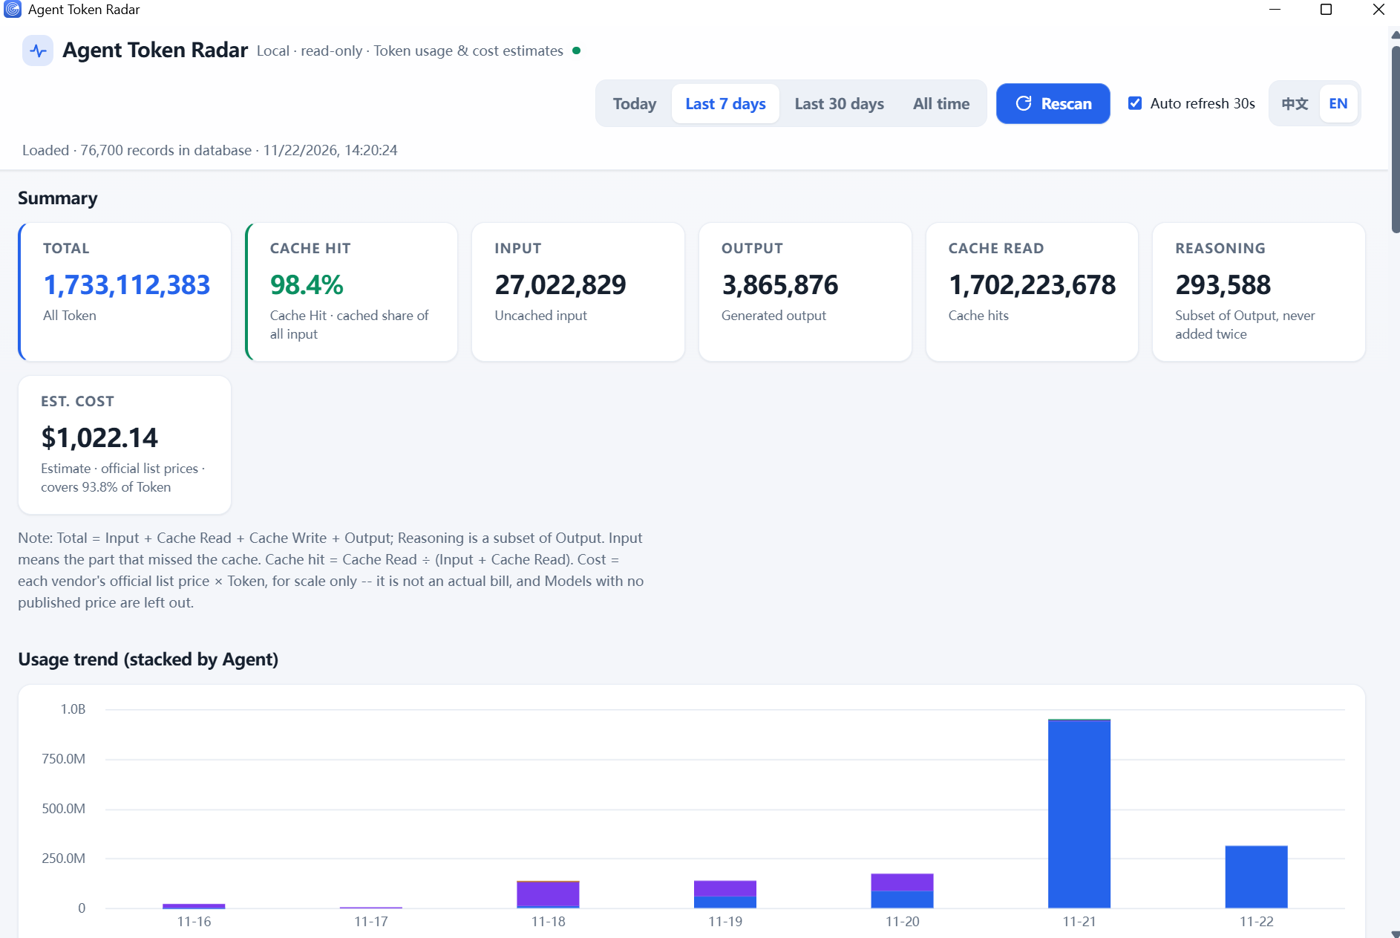
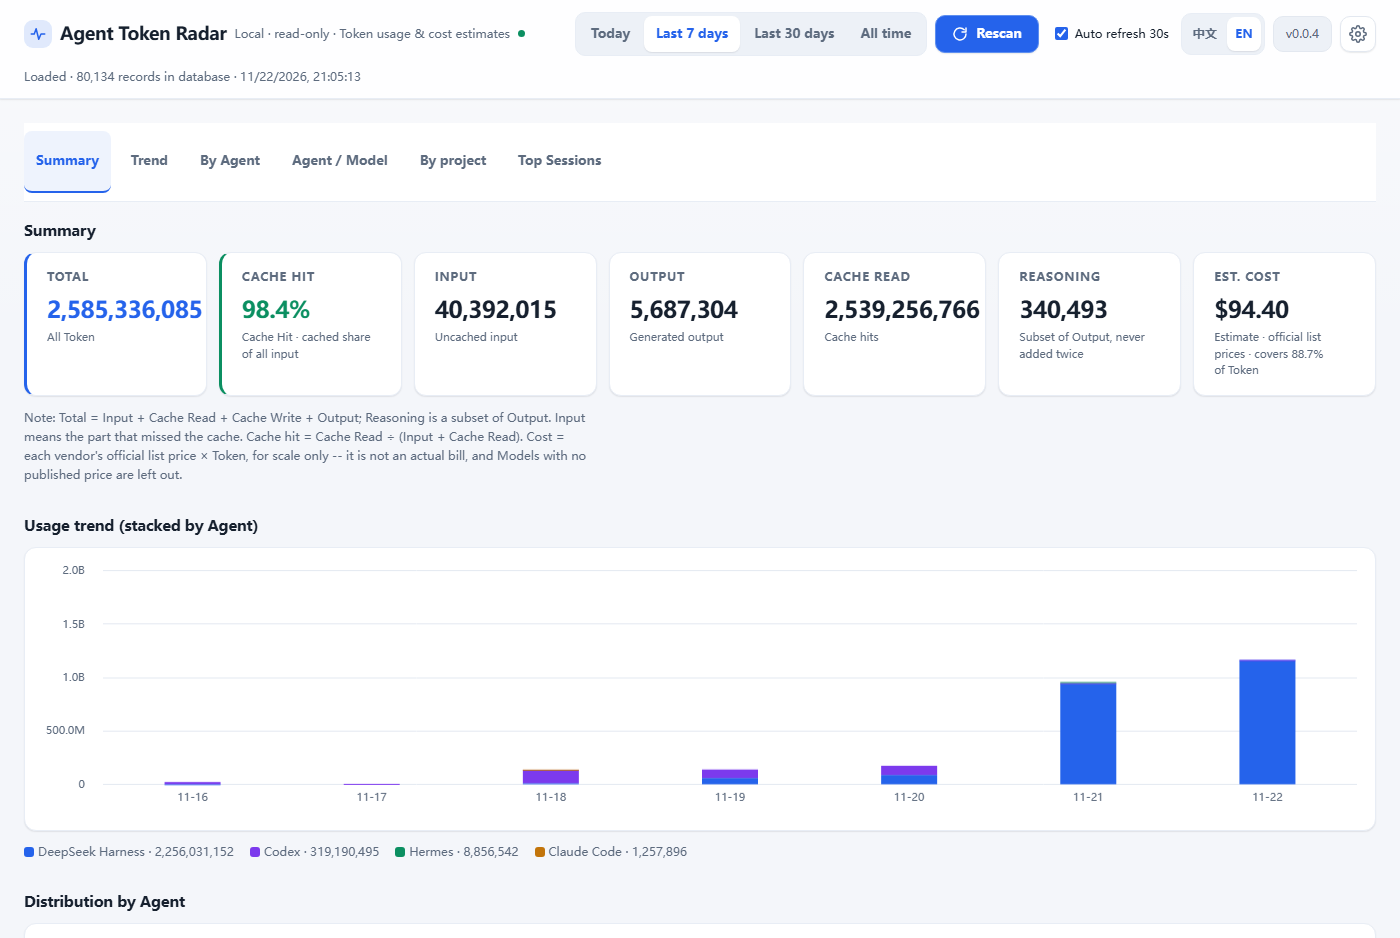
docs: re-shoot the README screenshots for 0.0.4, and fix the About line
The six images still showed 0.0.3: no version button in the toolbar, no update
panel, and the old card layout. They were taken before the 0.0.4 interface
changes, so the README was advertising a screen that no longer exists.

Re-shot from the packaged build against this machine's real data, at the same
1400x938 so the surrounding layout does not shift. The capture is a committed
script now (scripts/shot_readme.py) rather than hand-taken images, because
hand-taking drifts -- a different window size, a forgotten language switch --
and the next interface change would need the same guesswork again.

The repository description also still said "不联网" (no network), which stopped
being true when update checking shipped in 0.0.3. It now says the only network
use is the update check.

Also adds tests/test_readme_links.py: every local link in both READMEs must
resolve, the two languages must show the same number of screenshots, and an
image under 20KB is treated as a failed capture.

diff --git a/scripts/shot_readme.py b/scripts/shot_readme.py
@@ -1,0 +1,270 @@
+"""Capture the README screenshots from a running Agent Token Radar.
+
+Why a script instead of hand-taken screenshots: the README promises these come
+from the real app, so they must be re-taken whenever the interface changes.
+Doing that by hand drifts (different window size, different scroll offset,
+forgotten language switch). This drives one headless browser over CDP, scrolls
+to an exact heading, and writes a fixed-size PNG -- so a re-shoot is one command
+and every image matches the others.
+
+Usage:
+    python scripts/shot_readme.py --port 8771
+
+Requires Edge or Chrome. Standard library only apart from the browser itself.
+"""
+
+from __future__ import annotations
+
+import argparse
+import base64
+import json
+import shutil
+import socket
+import subprocess
+import sys
+import tempfile
+import time
+import urllib.request
+from pathlib import Path
+
+ROOT = Path(__file__).resolve().parents[1]
+DOCS = ROOT / "docs"
+
+#: 1400x938 matches the images both READMEs already reference.
+WIDTH, HEIGHT = 1400, 938
+
+#: (filename pattern, element id to align to the top, description)
+SHOTS = [
+    ("app-{lang}-1.png", "cards-title", "summary + trend"),
+    ("app-{lang}-2.png", "model-title", "by model"),
+    ("app-{lang}-3.png", "sessions-title", "top sessions"),
+]
+
+BROWSERS = [
+    r"C:\Program Files (x86)\Microsoft\Edge\Application\msedge.exe",
+    r"C:\Program Files\Google\Chrome\Application\chrome.exe",
+    r"C:\Program Files\Microsoft\Edge\Application\msedge.exe",
+]
+
+
+def _find_browser() -> str:
+    for path in BROWSERS:
+        if Path(path).is_file():
+            return path
+    raise SystemExit("no Edge or Chrome found; install one to re-shoot")
+
+
+def _free_port() -> int:
+    with socket.socket() as s:
+        s.bind(("127.0.0.1", 0))
+        return int(s.getsockname()[1])
+
+
+def _wait_devtools(port: int, timeout: float = 30.0) -> str:
+    """Return the webSocketDebuggerUrl of the first page target."""
+    deadline = time.time() + timeout
+    last = ""
+    while time.time() < deadline:
+        try:
+            with urllib.request.urlopen(
+                    f"http://127.0.0.1:{port}/json/list", timeout=2) as r:
+                targets = json.load(r)
+            for t in targets:
+                if t.get("type") == "page" and t.get("webSocketDebuggerUrl"):
+                    return t["webSocketDebuggerUrl"]
+            last = "no page target yet"
+        except Exception as exc:                     # noqa: BLE001 - retried
+            last = str(exc)
+        time.sleep(0.4)
+    raise SystemExit(f"devtools never became ready: {last}")
+
+
+class CDP:
+    """Minimal CDP client over a raw socket.
+
+    No third-party websocket library: this project keeps to the standard
+    library, and the framing needed here is a few dozen lines.
+    """
+
+    def __init__(self, ws_url: str) -> None:
+        rest = ws_url.split("://", 1)[1]
+        hostport, path = rest.split("/", 1)
+        host, port = hostport.split(":")
+        self.sock = socket.create_connection((host, int(port)), timeout=60)
+        key = base64.b64encode(b"agent-token-radar").decode()
+        req = (
+            f"GET /{path} HTTP/1.1\r\n"
+            f"Host: {hostport}\r\n"
+            "Upgrade: websocket\r\n"
+            "Connection: Upgrade\r\n"
+            f"Sec-WebSocket-Key: {key}\r\n"
+            "Sec-WebSocket-Version: 13\r\n\r\n"
+        )
+        self.sock.sendall(req.encode())
+        buf = b""
+        while b"\r\n\r\n" not in buf:
+            chunk = self.sock.recv(4096)
+            if not chunk:
+                raise SystemExit("websocket handshake failed")
+            buf += chunk
+        if b"101" not in buf.split(b"\r\n", 1)[0]:
+            raise SystemExit(f"websocket refused: {buf[:200]!r}")
+        self._id = 0
+
+    def _send_frame(self, payload: bytes) -> None:
+        header = bytearray([0x81])
+        n = len(payload)
+        if n < 126:
+            header.append(0x80 | n)
+        elif n < 65536:
+            header.append(0x80 | 126)
+            header += n.to_bytes(2, "big")
+        else:
+            header.append(0x80 | 127)
+            header += n.to_bytes(8, "big")
+        mask = b"\x01\x02\x03\x04"
+        header += mask
+        self.sock.sendall(bytes(header)
+                          + bytes(b ^ mask[i % 4] for i, b in enumerate(payload)))
+
+    def _read_exact(self, n: int) -> bytes:
+        out = b""
+        while len(out) < n:
+            chunk = self.sock.recv(n - len(out))
+            if not chunk:
+                raise SystemExit("websocket closed")
+            out += chunk
+        return out
+
+    def _recv_frame(self) -> bytes:
+        b0, b1 = self._read_exact(2)
+        length = b1 & 0x7F
+        if length == 126:
+            length = int.from_bytes(self._read_exact(2), "big")
+        elif length == 127:
+            length = int.from_bytes(self._read_exact(8), "big")
+        payload = self._read_exact(length)
+        opcode = b0 & 0x0F
+        if opcode == 0x8:
+            raise SystemExit("websocket closed by browser")
+        if opcode == 0x9:
+            self._send_frame(payload)
+            return self._recv_frame()
+        return payload
+
+    def call(self, method: str, **params) -> dict:
+        self._id += 1
+        msg = json.dumps({"id": self._id, "method": method,
+                          "params": params}).encode()
+        self._send_frame(msg)
+        while True:
+            data = json.loads(self._recv_frame())
+            if data.get("id") == self._id:
+                if "error" in data:
+                    raise SystemExit(f"{method} failed: {data['error']}")
+                return data.get("result", {})
+
+    def js(self, expression: str):
+        res = self.call("Runtime.evaluate", expression=expression,
+                        returnByValue=True, awaitPromise=True)
+        return res.get("result", {}).get("value")
+
+    def close(self) -> None:
+        try:
+            self.sock.close()
+        except OSError:
+            pass
+
+
+def _shoot(browser: str, port: int, lang: str, anchor: str, out: Path) -> None:
+    profile = Path(tempfile.mkdtemp(prefix="atr-shot-"))
+    devtools = _free_port()
+    proc = subprocess.Popen(
+        [browser,
+         "--headless=new",
+         "--disable-gpu",
+         "--hide-scrollbars",
+         f"--remote-debugging-port={devtools}",
+         f"--user-data-dir={profile}",
+         f"--window-size={WIDTH},{HEIGHT}",
+         "about:blank"],
+        stdout=subprocess.DEVNULL, stderr=subprocess.DEVNULL,
+    )
+    try:
+        cdp = CDP(_wait_devtools(devtools))
+        try:
+            cdp.call("Page.enable")
+            cdp.call("Emulation.setDeviceMetricsOverride",
+                     width=WIDTH, height=HEIGHT,
+                     deviceScaleFactor=1, mobile=False)
+            # The language is persisted in localStorage, so it has to be set
+            # before the app reads it -- hence navigate, set, reload.
+            cdp.call("Page.navigate", url=f"http://127.0.0.1:{port}/")
+            time.sleep(2.5)
+            cdp.js(f"localStorage.setItem('atr.lang', {json.dumps(lang)})")
+            cdp.call("Page.reload")
+            time.sleep(3.5)
+
+            # Wait until the tables are actually populated: the app fetches
+            # before it renders, and a screenshot of empty tbody is useless.
+            for _ in range(60):
+                rows = cdp.js("document.querySelectorAll('tbody tr').length") or 0
+                if rows >= 3:
+                    break
+                time.sleep(0.5)
+
+            # Align the heading just under the sticky topbar + jump bar. The
+            # heading has to clear BOTH bars: leaving it 12px below the jump
+            # bar cut the section title off behind it in the first attempt.
+            cdp.js(f"""
+                (() => {{
+                  const el = document.getElementById({json.dumps(anchor)});
+                  if (!el) return 'missing';
+                  const bars = document.querySelectorAll(
+                    '.topbar, .section-nav, nav');
+                  let offset = 0;
+                  for (const b of bars) {{
+                    const r = b.getBoundingClientRect();
+                    if (r.height > 0 && r.top < 160) offset = Math.max(offset, r.bottom);
+                  }}
+                  const y = el.getBoundingClientRect().top + window.scrollY
+                            - offset - 34;
+                  window.scrollTo(0, Math.max(0, y));
+                  return 'ok';
+                }})()
+            """)
+            time.sleep(1.2)
+
+            shot = cdp.call("Page.captureScreenshot", format="png")
+            out.write_bytes(base64.b64decode(shot["data"]))
+        finally:
+            cdp.close()
+    finally:
+        proc.terminate()
+        try:
+            proc.wait(timeout=10)
+        except subprocess.TimeoutExpired:
+            proc.kill()
+        shutil.rmtree(profile, ignore_errors=True)
+
+
+def main() -> int:
+    ap = argparse.ArgumentParser()
+    ap.add_argument("--port", type=int, default=8770)
+    ap.add_argument("--lang", default="both", choices=["zh", "en", "both"])
+    args = ap.parse_args()
+
+    browser = _find_browser()
+    langs = ["zh", "en"] if args.lang == "both" else [args.lang]
+    DOCS.mkdir(exist_ok=True)
+    for lang in langs:
+        for pattern, anchor, label in SHOTS:
+            out = DOCS / pattern.format(lang=lang)
+            _shoot(browser, args.port, lang, anchor, out)
+            print(f"  {out.name}  {out.stat().st_size // 1024}KB  ({label}, {lang})")
+    print("done")
+    return 0
+
+
+if __name__ == "__main__":
+    sys.exit(main())

diff --git a/tests/test_readme_links.py b/tests/test_readme_links.py
@@ -1,0 +1,96 @@
+"""The READMEs must not point at anything that is not there.
+
+Both READMEs are the front page of the project, and every link in them is a
+promise: a screenshot of the interface, a design note, a pricing explanation.
+A rename or a deleted file turns those into dead ends that nobody notices until
+a reader clicks one.
+
+This was written after the screenshots were re-taken for 0.0.4: the files are
+regenerated by ``scripts/shot_readme.py``, so it is easy to rename or drop one
+and leave a README pointing at a missing image. The check is cheap and catches
+the whole class.
+"""
+
+from __future__ import annotations
+
+import re
+import unittest
+from pathlib import Path
+
+ROOT = Path(__file__).resolve().parents[1]
+READMES = [ROOT / "README.md", ROOT / "README.en.md"]
+
+#: Markdown inline links and images: [text](target) / ![alt](target)
+LINK = re.compile(r"!?\[[^\]]*\]\(([^)\s]+)\)")
+
+#: Section anchors are checked by the heading tests; external links are the
+#: reader's problem, not ours.
+SKIP_PREFIXES = ("http://", "https://", "mailto:", "#")
+
+
+def _local_targets(text: str) -> list[str]:
+    out = []
+    for raw in LINK.findall(text):
+        target = raw.split("#", 1)[0]          # drop a fragment
+        if not target or target.startswith(SKIP_PREFIXES):
+            continue
+        out.append(target)
+    return out
+
+
+class ReadmeLinkTests(unittest.TestCase):
+    def test_every_local_link_resolves(self) -> None:
+        for readme in READMES:
+            text = readme.read_text(encoding="utf-8")
+            for target in _local_targets(text):
+                path = (readme.parent / target).resolve()
+                self.assertTrue(
+                    path.exists(),
+                    f"{readme.name} links to a missing file: {target}")
+
+    def test_both_readmes_reference_the_same_screenshots(self) -> None:
+        """Chinese and English must stay in step.
+
+        They are separate files with separate image sets (app-zh-* / app-en-*),
+        so this compares the *count* and the suffix pattern rather than names.
+        """
+        zh = [t for t in _local_targets(
+            READMES[0].read_text(encoding="utf-8")) if "/docs/" in t]
+        en = [t for t in _local_targets(
+            READMES[1].read_text(encoding="utf-8")) if "/docs/" in t]
+        self.assertEqual(len(zh), len(en),
+                         f"README.md shows {len(zh)} images, "
+                         f"README.en.md shows {len(en)}")
+        for target in zh:
+            self.assertIn("app-zh-", target)
+        for target in en:
+            self.assertIn("app-en-", target)
+
+    def test_screenshots_are_not_stale_placeholders(self) -> None:
+        """A zero-byte or tiny PNG means the capture silently failed."""
+        for readme in READMES:
+            for target in _local_targets(readme.read_text(encoding="utf-8")):
+                if not target.endswith(".png"):
+                    continue
+                path = readme.parent / target
+                self.assertGreater(
+                    path.stat().st_size, 20_000,
+                    f"{target} looks like a failed capture "
+                    f"({path.stat().st_size} bytes)")
+
+
+class ScreenshotScriptTests(unittest.TestCase):
+    def test_capture_script_is_committed(self) -> None:
+        """The images must be reproducible, not hand-taken one-offs."""
+        script = ROOT / "scripts" / "shot_readme.py"
+        self.assertTrue(script.is_file(),
+                        "the README screenshots need a re-runnable script")
+        body = script.read_text(encoding="utf-8")
+        # It has to cover every image the READMEs reference.
+        for name in ("app-{lang}-1.png", "app-{lang}-2.png",
+                     "app-{lang}-3.png"):
+            self.assertIn(name, body)
+
+
+if __name__ == "__main__":
+    unittest.main()

diff --git a/README.en.md b/README.en.md
@@ -29,8 +29,8 @@ database, and serves it through a CLI report and a local web dashboard.
 
 ## The interface
 
-All screenshots below are the **real installed Windows desktop app**, not a
-browser tab.
+All screenshots below are the **packaged desktop app** running against this
+machine's real scan results — not sample data.
 
 **Summary and trend** — total tokens, cache-hit rate, input / output / cache read /
 reasoning, plus the reference cost and the share of tokens it covers, over a

diff --git a/README.md b/README.md
@@ -25,7 +25,7 @@
 
 ## 界面
 
-以下截图取自**实际安装的 Windows 桌面程序**（不是浏览器标签页）。
+以下截图取自**实际打包的桌面程序**（数据就是本机真实扫描结果，非示例数据）。
 
 **汇总与趋势**：总用量、缓存命中率、输入/输出/缓存读取/推理六个指标，加参考费用与覆盖率，下面是按 Agent 堆叠的每日消耗趋势。
 
